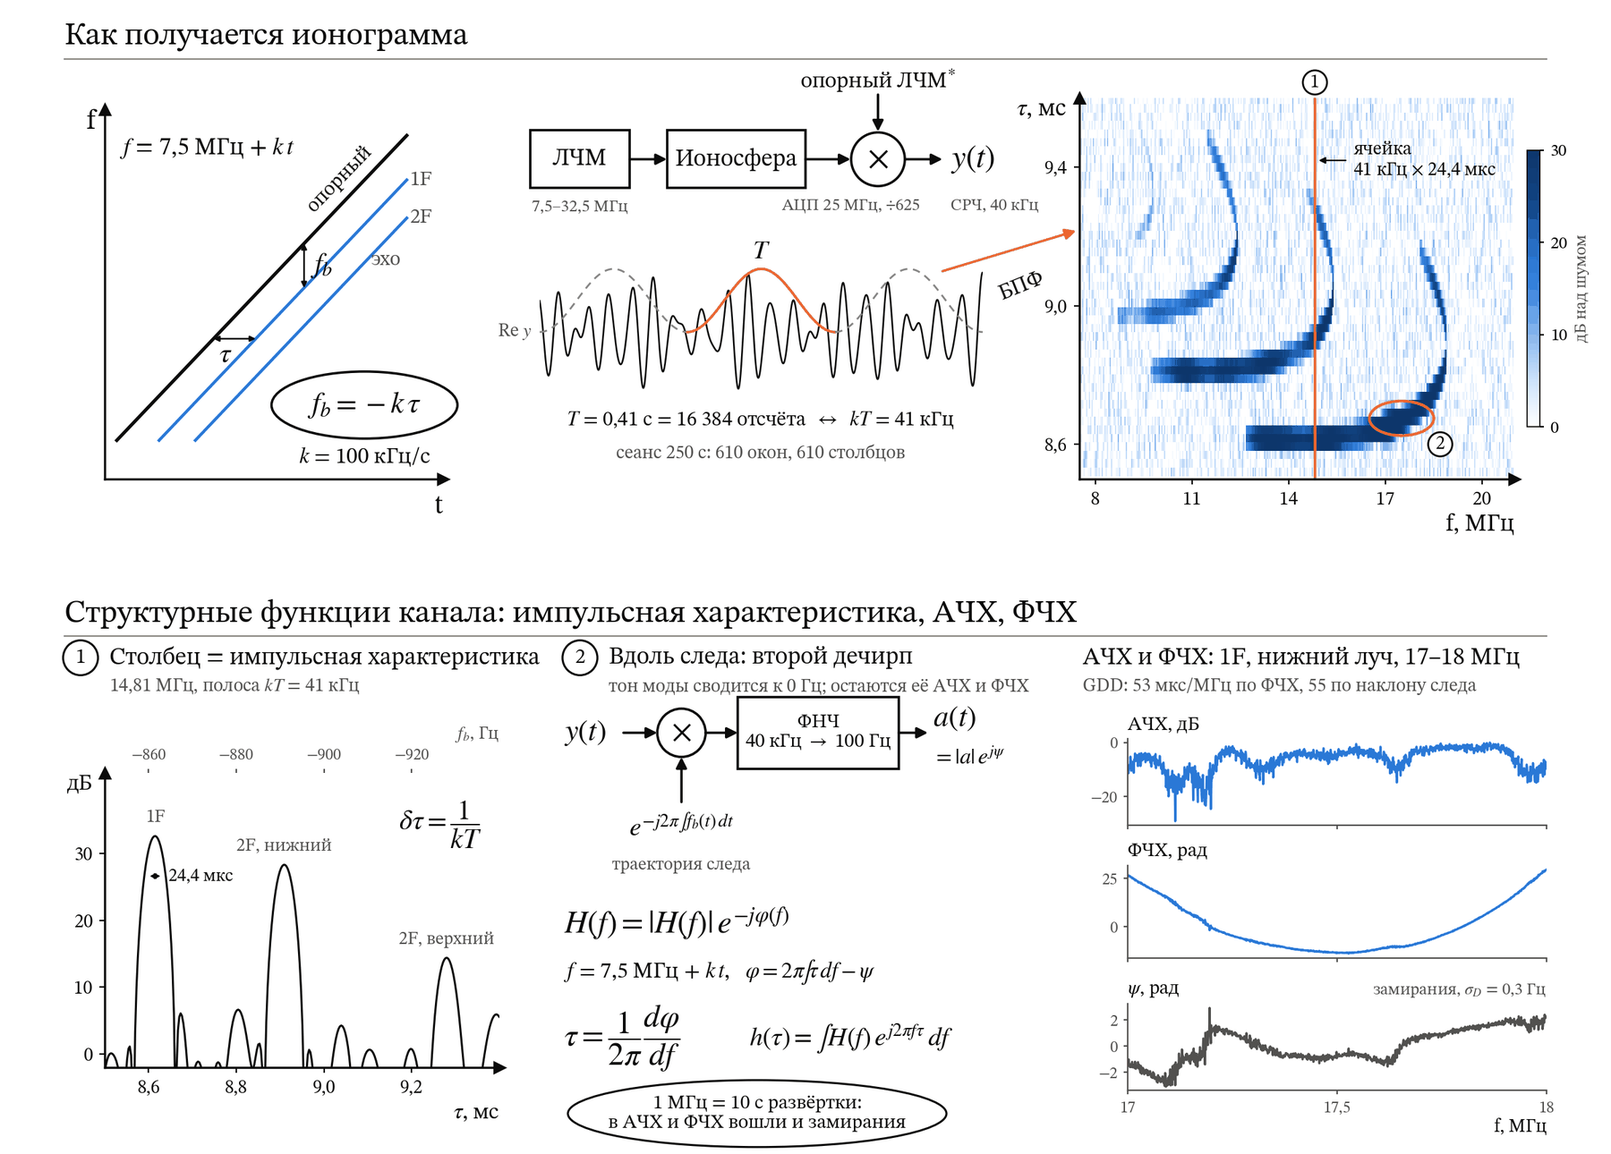
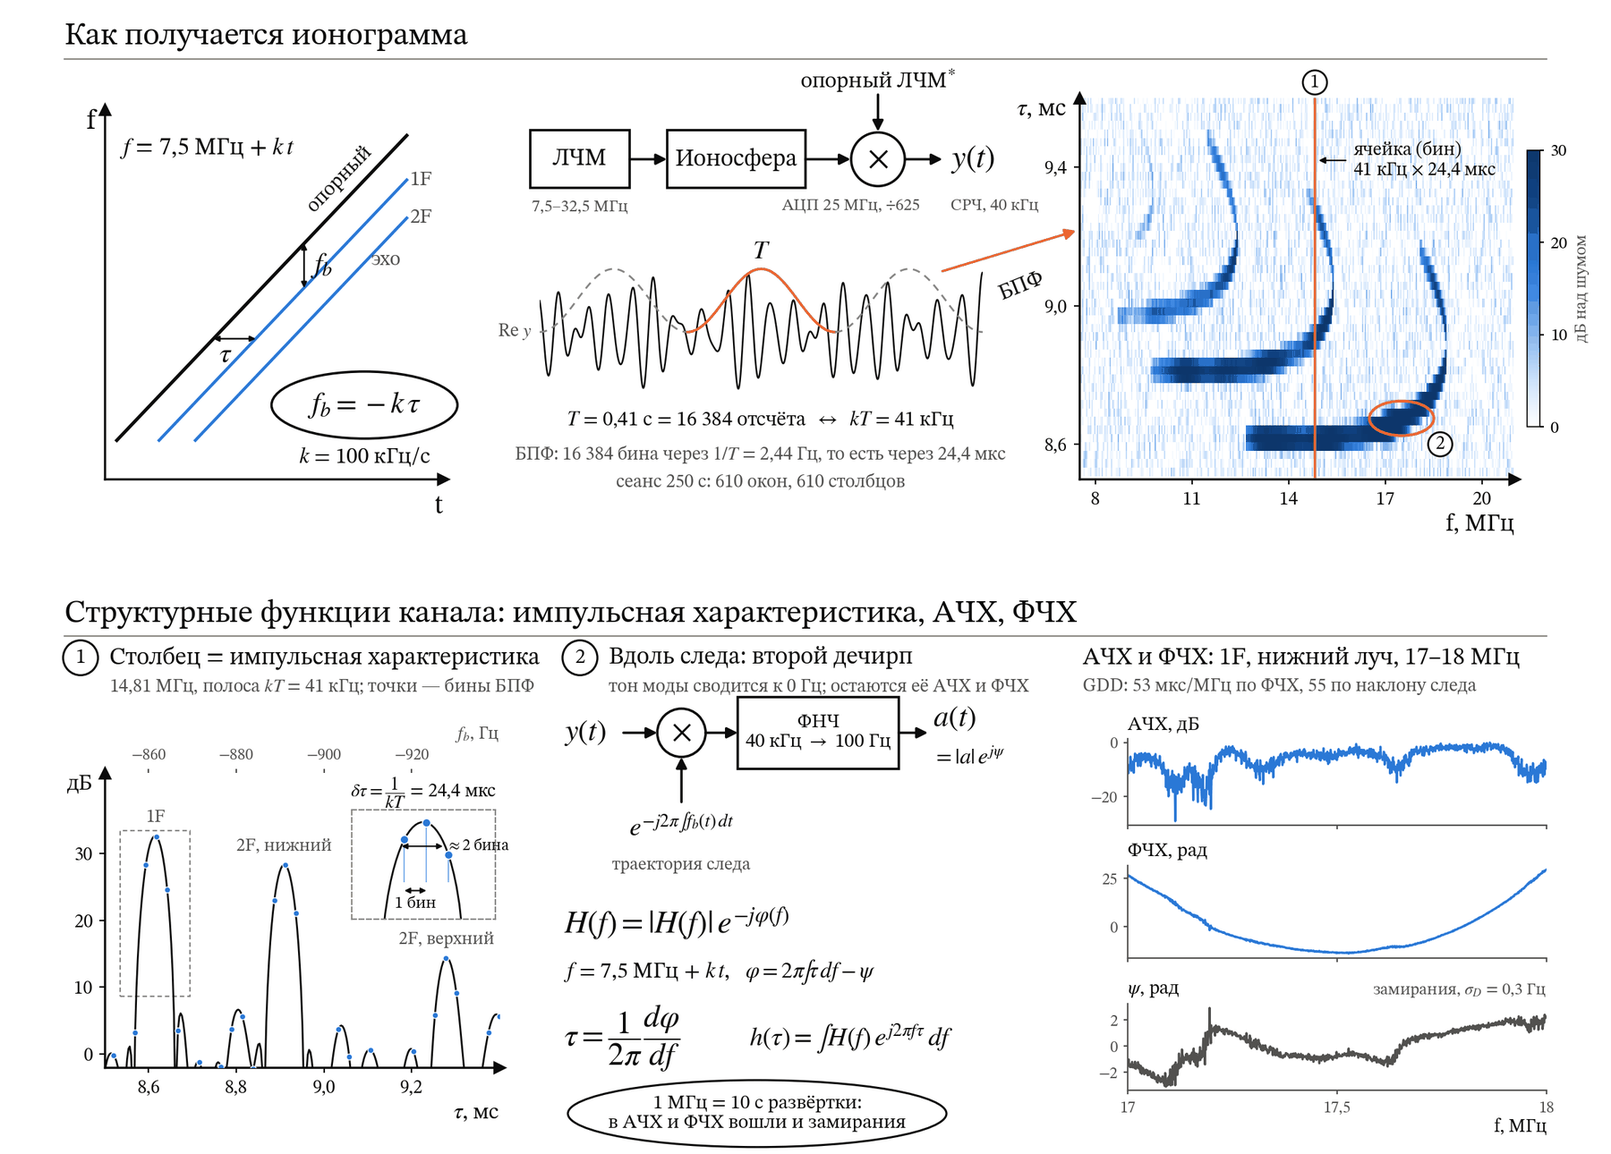
Explain the FFT bins on board 1 and in the notes
Board 1 now marks the column's own bins as dots, with a loupe on the 1F peak showing
one bin (1/kT = 24.4 µs) and the peak's width of about two bins under the Hann window;
the chain's caption spells out 16 384 bins of 2.44 Hz. Board 3 calls the 125 µs of an
8 kHz cell its bin.

The notes gain two items: what a bin is and what it covers, and why a bin is not yet
the resolution (two equal paths need about 2.5 bins, 60 µs, to show a dip; the
scalloping loss; why a threshold depends on how many bins are searched). The old claim
that paths 24.4 µs apart separate is corrected.

diff --git a/js/wiki/simdoc.js b/js/wiki/simdoc.js
@@ -46,13 +46,15 @@ ru: String.raw`
 
   <h3>Схема 1. Ионограмма и функции канала</h3>
   <figure>
-    <div class="figframe"><a href="img/board-ionogram-ru.png"><img src="img/board-ionogram-ru.png" alt="Схема: плоскость частота — время с опорным сигналом и эхом, тракт сжатия ЛЧМ-сигнала, окна по 0,41 с, ионограмма из столбцов; ниже — столбец как импульсная характеристика, второе сжатие вдоль следа, АЧХ и ФЧХ моды 1F на 17–18 МГц" width="1800" height="1290" loading="lazy"></a></div>
+    <div class="figframe"><a href="img/board-ionogram-ru.png"><img src="img/board-ionogram-ru.png" alt="Схема: плоскость частота — время с опорным сигналом и эхом, тракт сжатия ЛЧМ-сигнала, окна по 0,41 с, ионограмма из столбцов; ниже — столбец как импульсная характеристика с бинами БПФ и лупой на пике 1F, второе сжатие вдоль следа, АЧХ и ФЧХ моды 1F на 17–18 МГц" width="1800" height="1290" loading="lazy"></a></div>
     <figcaption><b>Как получается ионограмма и что из неё читается.</b> Цифрами в кружках отмечены столбец на 14,8 МГц и участок нижнего луча 1F на 17–18 МГц; они же — нижние панели. Щелчок открывает схему целиком.</figcaption>
   </figure>
   <ol class="plain">
     <li><b>Задержка становится частотой.</b> Эхо, пришедшее на <var>τ</var> позже, идёт параллельно опорному сигналу и на <var>kτ</var> ниже его. После умножения на сопряжённый опорный сигнал оно превращается в постоянный тон разностной частоты <var>f<sub>b</sub></var> = −<var>kτ</var> (<a href="#wiki/dechirp">часть вики о сжатии</a>).</li>
-    <li><b>Окно становится столбцом.</b> Сигнал разностной частоты режется на окна по 0,41 с, и каждое окно — это 41 кГц развёртки. Спектр окна — столбец ионограммы с отсчётом задержки 1/(<var>kT</var>) = 24,4 мкс; за сеанс в 250 с таких столбцов 610. Размеры ячейки по двум осям всегда дают в произведении единицу, поэтому длина БПФ только переносит разрешение с одной оси на другую (<a href="#cells">Длина БПФ и ячейка</a>).</li>
-    <li><b>Столбец — импульсная характеристика.</b> Один столбец — это |<var>h</var>(<var>τ</var>)|² канала в полосе 41 кГц: на 14,8 МГц в нём видны 1F и оба луча 2F. Пути, разнесённые меньше чем на 24,4 мкс, в одном столбце не разделяются.</li>
+    <li><b>Окно становится столбцом.</b> Сигнал разностной частоты режется на окна по 0,41 с, и каждое окно — это 41 кГц развёртки. Спектр окна — столбец ионограммы; за сеанс в 250 с таких столбцов 610. Размеры ячейки по двум осям всегда дают в произведении единицу, поэтому длина БПФ только переносит разрешение с одной оси на другую (<a href="#cells">Длина БПФ и ячейка</a>).</li>
+    <li><b>Столбец состоит из бинов.</b> БПФ превращает 16 384 отсчёта окна в 16 384 значения спектра — бина. Соседние бины отстоят на <var>f<sub>s</sub></var>/<var>N</var> = 40 000/16 384 = 2,44 Гц, то есть на 1/<var>T</var>: два тона различимы, только если за время окна один успевает обогнать другой хотя бы на период. В задержке это 2,44 Гц / 100 кГц/с = 1/(<var>kT</var>) = 24,4 мкс. Все бины вместе покрывают ±20 кГц, то есть задержки до ±200 мс; ионограмма на схеме показывает лишь 8,5–9,6 мс, около 45 бинов. На нижней левой панели бины отмечены точками, а лупа на пике 1F показывает шаг в один бин.</li>
+    <li><b>Бин — ещё не разрешение.</b> Окно Ханна расширяет пик: одиночное эхо занимает около двух бинов по уровню −6 дБ. Два пути равной силы разделяются провалом между пиками, только если отстоят примерно на 2,5 бина, то есть на 60 мкс; ближе всё решает разность их фаз, и пики могут слиться в один. Эхо, попавшее между бинами, теряет до 1,4 дБ, а его точное положение уточняют интерполяцией по соседним бинам. И шум в каждом бине свой: максимум по многим бинам тем выше медианы, чем бинов больше, — по 33 бинам в среднем на 7,5 дБ, по 321 — на 9,5 дБ. Поэтому порог обнаружения ставят с учётом того, по скольким бинам ищут пик.</li>
+    <li><b>Столбец — импульсная характеристика.</b> Один столбец — это |<var>h</var>(<var>τ</var>)|² канала в полосе 41 кГц: на 14,8 МГц в нём видны 1F и оба луча 2F. Пути, разнесённые меньше чем примерно на 60 мкс (2,5 бина), в одном столбце могут слиться.</li>
     <li><b>Вдоль следа — АЧХ и ФЧХ.</b> Второе сжатие вдоль траектории следа сводит тон моды к нулевой частоте, а фильтр нижних частот оставляет <var>a</var>(<var>t</var>) = |<var>a</var>|·e<sup><var>jψ</var></sup>. Поскольку <var>f</var> = 7,5 МГц + <var>kt</var>, это и есть передаточная функция моды: |<var>a</var>| — её АЧХ, а фаза траектории вместе с остатком <var>ψ</var> — ФЧХ. Как это устроено, разбирает схема 2.</li>
   </ol>
 
@@ -76,7 +78,7 @@ ru: String.raw`
     <figcaption><b>Что делают с сигналом 50 мкс/МГц.</b> Восемь шагов в три ряда: задержка зависит от частоты; что видит широкополосный сигнал; как дисперсию измеряют и моделируют. Щелчок открывает схему целиком.</figcaption>
   </figure>
   <ol class="plain">
-    <li><b>Задержка зависит от частоты (шаги 1–3).</b> На 17–18 МГц задержка растёт на 50 мкс: GDD = d<var>τ</var>/d<var>f</var> = 50 мкс/МГц, или 50 пс/Гц. В ячейке 8 кГц это всего 0,4 мкс, и при разрешении 125 мкс канал для такого сигнала — просто задержка. Но 1 МГц — это 125 ячеек, и задержка по ним поднимается лестницей на все 50 мкс.</li>
+    <li><b>Задержка зависит от частоты (шаги 1–3).</b> На 17–18 МГц задержка растёт на 50 мкс: GDD = d<var>τ</var>/d<var>f</var> = 50 мкс/МГц, или 50 пс/Гц. В ячейке 8 кГц это всего 0,4 мкс, и при бине 125 мкс (1/8 кГц) канал для такого сигнала — просто задержка. Но 1 МГц — это 125 ячеек, и задержка по ним поднимается лестницей на все 50 мкс.</li>
     <li><b>Что видит широкополосный сигнал (шаги 4–6).</b> Линейно растущая задержка — это квадратичная фаза π·GDD·Ω², где Ω — отстройка от середины полосы; на краях 1 МГц она набирает 39 рад. Сжатый импульс расплывается на GDD·<var>B</var> = 50 мкс, и его пик падает втрое. Насколько это важно, говорит GDD·<var>B</var>² — разброс задержки в единицах разрешения 1/<var>B</var>: при 1 пик теряет 0,06 дБ, при 5 — 1,5 дБ (окно Ханна). Для этого участка это полосы около 140 и 320 кГц; сигналы шириной 3 и 48 кГц дисперсии не замечают (<a href="#gdd">Дисперсия на ионограмме</a>, <a href="#wiki/gdd">часть вики о наклоне следа</a>).</li>
     <li><b>Как её измеряют и моделируют (шаги 7–8).</b> GDD читается с одного свипа двумя способами: по наклону следа — 55 мкс/МГц — и по кривизне ФЧХ после второго дечирпа — 53 мкс/МГц (<a href="#measure">Как измерять GDD</a>). Закон <var>τ</var> = <var>τ</var><sub>0</sub> + GDD·Ω — это режим <code>--dispersion gdd</code> имитатора (раздел <a href="#simdoc/synth">7</a>): ЛЧМ-сигнал с полосой <var>B</var> выходит из такой модели растянутым на GDD·<var>B</var>.</li>
   </ol>
@@ -512,13 +514,15 @@ en: String.raw`
 
   <h3>Board 1. The ionogram and the channel’s functions</h3>
   <figure>
-    <div class="figframe"><a href="img/board-ionogram-en.png"><img src="img/board-ionogram-en.png" alt="Board: the frequency–time plane with the replica and the echoes, the dechirp chain, 0.41 s windows, an ionogram built of columns; below, a column as the impulse response, a second dechirp along the trace, and the magnitude and phase of the 1F mode at 17–18 MHz" width="1800" height="1290" loading="lazy"></a></div>
+    <div class="figframe"><a href="img/board-ionogram-en.png"><img src="img/board-ionogram-en.png" alt="Board: the frequency–time plane with the replica and the echoes, the dechirp chain, 0.41 s windows, an ionogram built of columns; below, a column as the impulse response with its FFT bins and a loupe on the 1F peak, a second dechirp along the trace, and the magnitude and phase of the 1F mode at 17–18 MHz" width="1800" height="1290" loading="lazy"></a></div>
     <figcaption><b>How an ionogram is made, and what is read from it.</b> The ringed numbers mark the column at 14.8 MHz and the stretch of the 1F low ray at 17–18 MHz, which are also the lower panels. Click for the full board.</figcaption>
   </figure>
   <ol class="plain">
     <li><b>Delay becomes frequency.</b> An echo arriving <var>τ</var> late runs parallel to the replica, <var>kτ</var> below it. Multiplied by the conjugate replica, it becomes a steady beat tone, <var>f<sub>b</sub></var> = −<var>kτ</var> (<a href="#wiki/dechirp">the wiki on the dechirp</a>).</li>
-    <li><b>A window becomes a column.</b> The beat is cut into windows of 0.41 s, each of them 41 kHz of sweep. A window’s spectrum is a column of the ionogram, in delay bins of 1/(<var>kT</var>) = 24.4 µs; a 250 s sweep makes 610 of them. The cell’s two sides always multiply to one, so the FFT length only moves resolution from one axis to the other (<a href="#cells">FFT length and cell</a>).</li>
-    <li><b>A column is the impulse response.</b> One column is the channel’s |<var>h</var>(<var>τ</var>)|² within 41 kHz: at 14.8 MHz it shows 1F and both rays of 2F. Paths closer than 24.4 µs do not separate in one column.</li>
+    <li><b>A window becomes a column.</b> The beat is cut into windows of 0.41 s, each of them 41 kHz of sweep. A window’s spectrum is a column of the ionogram; a 250 s sweep makes 610 of them. The cell’s two sides always multiply to one, so the FFT length only moves resolution from one axis to the other (<a href="#cells">FFT length and cell</a>).</li>
+    <li><b>A column is made of bins.</b> The FFT turns a window’s 16 384 samples into 16 384 values of the spectrum, its bins. Neighbouring bins are <var>f<sub>s</sub></var>/<var>N</var> = 40 000/16 384 = 2.44 Hz apart, which is 1/<var>T</var>: two tones can be told apart only if one gains at least a full cycle on the other within the window. In delay that is 2.44 Hz / 100 kHz/s = 1/(<var>kT</var>) = 24.4 µs. All the bins together cover ±20 kHz, delays up to ±200 ms; the board’s ionogram shows only 8.5–9.6 ms of them, about 45 bins. In the lower left panel the bins are the dots, and the loupe on the 1F peak shows one bin’s step.</li>
+    <li><b>A bin is not yet the resolution.</b> The Hann window widens a peak: a lone echo takes about two bins at −6 dB. Two paths of equal strength show a dip between their peaks only when about 2.5 bins, or 60 µs, apart; closer than that their phase difference decides, and the peaks may merge into one. An echo between two bins loses up to 1.4 dB, and its exact position is refined by interpolating between neighbouring bins. And each bin has its own noise: the maximum over many bins sits further above the median the more bins there are, 7.5 dB on average over 33 bins and 9.5 dB over 321. A detection threshold is therefore set with the number of bins searched in mind.</li>
+    <li><b>A column is the impulse response.</b> One column is the channel’s |<var>h</var>(<var>τ</var>)|² within 41 kHz: at 14.8 MHz it shows 1F and both rays of 2F. Paths closer than about 60 µs (2.5 bins) may merge in one column.</li>
     <li><b>Along the trace: magnitude and phase.</b> A second dechirp along the trace’s path brings the mode’s tone down to zero frequency, and a low-pass filter leaves <var>a</var>(<var>t</var>) = |<var>a</var>|·e<sup><var>jψ</var></sup>. Since <var>f</var> = 7.5 MHz + <var>kt</var>, this is the mode’s transfer function: |<var>a</var>| is its magnitude response, and the path’s phase together with the remainder <var>ψ</var> is its phase response. Board 2 takes this apart.</li>
   </ol>
 
@@ -542,7 +546,7 @@ en: String.raw`
     <figcaption><b>What 50 µs/MHz does to a signal.</b> Eight steps in three rows: the delay depends on frequency; what a wideband signal sees; how dispersion is measured and modelled. Click for the full board.</figcaption>
   </figure>
   <ol class="plain">
-    <li><b>The delay depends on frequency (steps 1–3).</b> Across 17–18 MHz the delay grows by 50 µs: GDD = d<var>τ</var>/d<var>f</var> = 50 µs/MHz, or 50 ps/Hz. Within an 8 kHz cell that is only 0.4 µs, and at a resolution of 125 µs the channel is just a delay to such a signal. But 1 MHz is 125 cells, and over them the delay climbs a staircase by the full 50 µs.</li>
+    <li><b>The delay depends on frequency (steps 1–3).</b> Across 17–18 MHz the delay grows by 50 µs: GDD = d<var>τ</var>/d<var>f</var> = 50 µs/MHz, or 50 ps/Hz. Within an 8 kHz cell that is only 0.4 µs, and with a bin of 125 µs (1/8 kHz) the channel is just a delay to such a signal. But 1 MHz is 125 cells, and over them the delay climbs a staircase by the full 50 µs.</li>
     <li><b>What a wideband signal sees (steps 4–6).</b> A delay that grows linearly is a quadratic phase, π·GDD·Ω², with Ω the offset from the band’s middle; at the edges of 1 MHz it reaches 39 rad. A compressed pulse smears over GDD·<var>B</var> = 50 µs, and its peak falls threefold. How much this matters is told by GDD·<var>B</var>², the delay spread in units of the resolution 1/<var>B</var>: at 1 the peak loses 0.06 dB, at 5 it loses 1.5 dB (Hann window). On this stretch those are bands of about 140 and 320 kHz; signals 3 and 48 kHz wide do not notice the dispersion (<a href="#gdd">Dispersion on the ionogram</a>, <a href="#wiki/gdd">the wiki on a trace’s slope</a>).</li>
     <li><b>How it is measured and modelled (steps 7–8).</b> One sweep gives the GDD two ways: from the trace’s slope, 55 µs/MHz, and from the curvature of the phase after the second dechirp, 53 µs/MHz (<a href="#measure">Measuring GDD</a>). The law <var>τ</var> = <var>τ</var><sub>0</sub> + GDD·Ω is the simulator’s <code>--dispersion gdd</code> (section <a href="#simdoc/synth">7</a>): a chirp of bandwidth <var>B</var> comes out of such a model stretched by GDD·<var>B</var>.</li>
   </ol>
